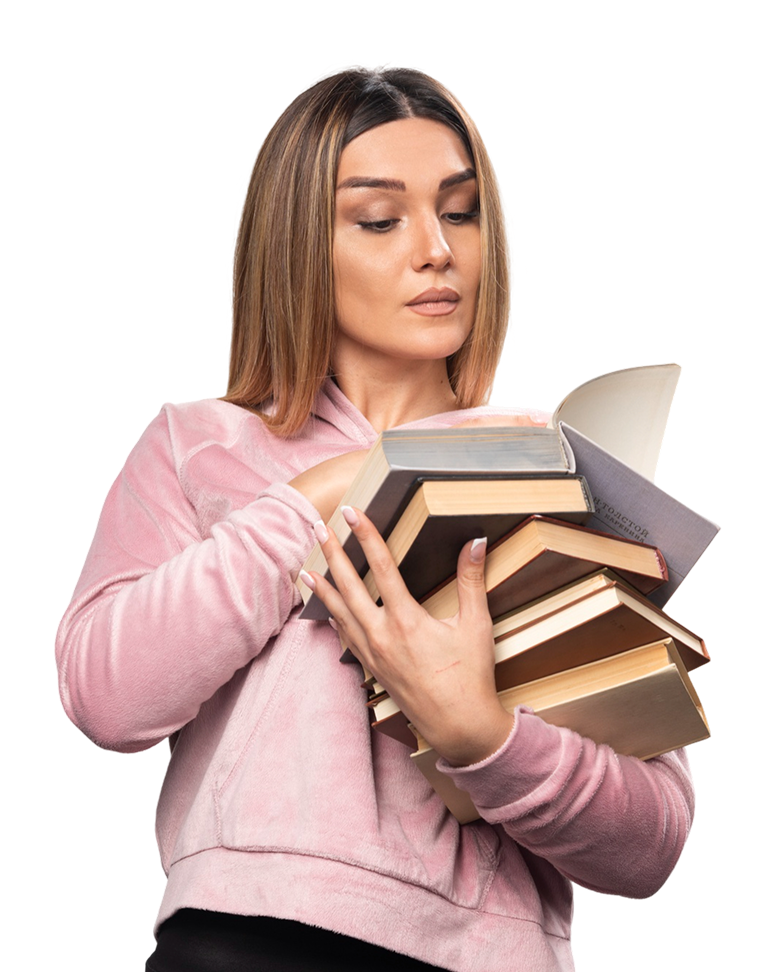
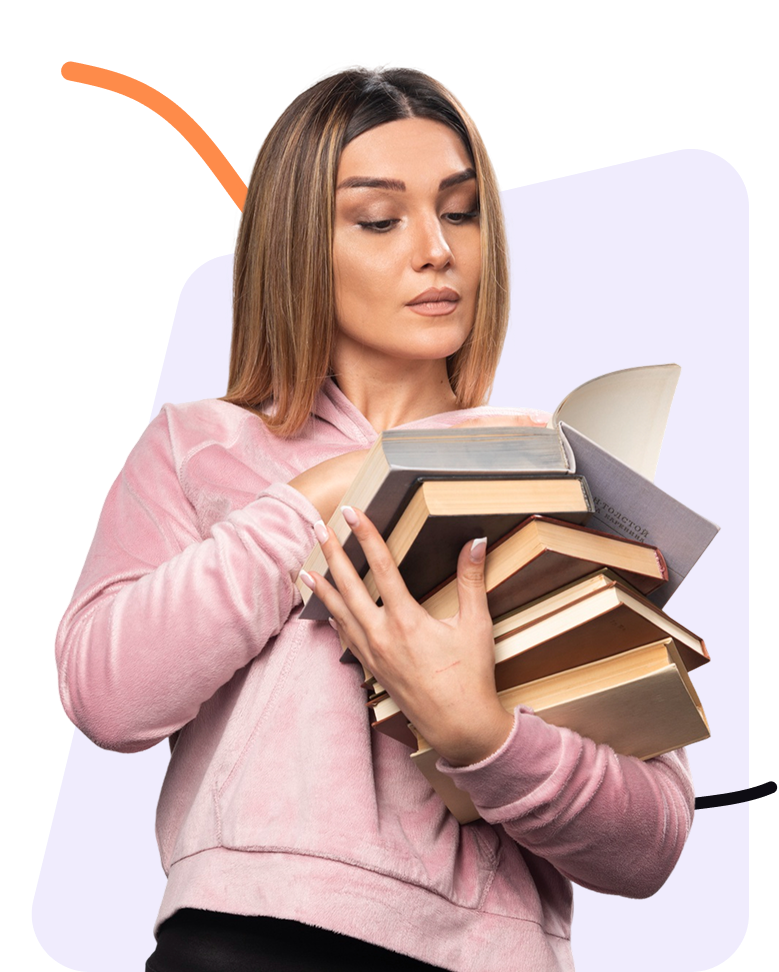
images update

Changed region(s): [[0.0616, 0.0617, 0.3389, 0.216], [0.8935, 0.8025, 1.0, 0.8333]]

diff --git a/index.html b/index.html
@@ -108,7 +108,7 @@
     </section>
 
     <section class="why wrapper wide-gap">
-      <div class="photo-wrap left-photo"><span class="arc"></span><img src="assets/why-author.png"
+      <div class="photo-wrap left-photo"><img src="assets/why-author.png"
           alt="Author reading books"></div>
       <div class="why-copy">
         <h2>WHY <span class="orange">AUTHORS</span><br>CHOOSE US</h2>
@@ -144,7 +144,7 @@
       </div>
 
       <div class="support-img">
-        <span class="arc orange-arc"></span>
+       
         <img src="assets/support-author.png" alt="Modern author reading">
       </div>
 
@@ -265,9 +265,9 @@
       <div class="shape two"></div>
       <div class="shape three"></div>
       <h2>TELL US ABOUT YOUR PROJECT,<br>AND WE'LL PROVIDE YOU WITH A<br>CUSTOMIZED QUOTE.</h2>
-      <p>Whether you're self writing, publishing or building a brand project, our team helps turn your idea into a
-        polished project.</p>
-      <a href="#" class="btn white-btn">Create a project now</a>
+      <p>Whether you are still writing, preparing to publish, or ready to grow your author brand, we can help you take
+        the next step with expert creative support.</p>
+      <a href="#" class="btn white-btn">Message Us on WhatsApp</a>
     </section>
   </main>
 
@@ -352,11 +352,11 @@
   </footer>
 
   <button class="back-to-top" type="button" aria-label="Back to top">
-  ↑
-</button>
+    ↑
+  </button>
 
   <script src="script.js"></script>
-  
+
 </body>
 
 </html>

diff --git a/style.css b/style.css
@@ -146,6 +146,13 @@ body {
   border-radius: 40px;
   font-weight: 700;
   font-size: 13px;
+  transition: 0.3s ease;
+}
+.nav-btn:hover {
+  background: #8149C8;
+  color: #fff;
+  transform: translateY(-2px);
+  box-shadow: 0 10px 22px rgba(129, 73, 200, 0.25);
 }
 
 .menu-toggle {
@@ -387,7 +394,16 @@ body {
   font-weight: 400;
   font-size: 14px;
   padding: 10px 19px;
+  transition: 0.3s ease;
 }
+.mini-btn:hover {
+  background:var(--green);
+  color: #fff;
+  transform: translateY(-2px);
+  
+}
+
+
 .service-grid {
   display: grid;
   grid-template-columns: repeat(2, 1fr);